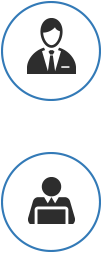
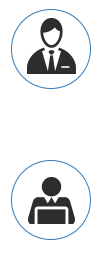
update style for User type page

diff --git a/src/main/webapp/assets/modules/footer/footer.html b/src/main/webapp/assets/modules/footer/footer.html
@@ -10,7 +10,7 @@
           <li><i class="fa fa-circle"></i><a href="#/contest" translate="joinTechLooperChallenge"></a></li>
           <li><i class="fa fa-circle"></i><a onClick="gotoChallenges()" translate="allChallenges"></a></li>
           <li><i class="fa fa-circle"></i><a onClick="gotoProjects()" translate="allFreelancerProjects"></a></li>
-          <li><i class="fa fa-circle"></i><a href="#/how-it-works" translate="homepage.howitworks.title"></a></li>
+          <li><i class="fa fa-circle"></i><a href="#/how-does-it-work" translate="homepage.howitworks.title"></a></li>
         </ul>
       </div>
       <div class="site-map-content">

diff --git a/src/main/webapp/assets/sass/home.sass b/src/main/webapp/assets/sass/home.sass
@@ -904,7 +904,7 @@
 
     .line-center
         background: url(../images/line-li-gray.png) center top repeat-y
-        min-height: 300px
+        min-height: 265px
         text-align: center
         vertical-align: middle
         position: relative
@@ -923,7 +923,7 @@
             color: #b0b0b0
     .ic-user-type
         background: url(../images/ic-user-type.png) center top no-repeat
-        height: 120px
+        height: 95px
         width: 100%
         clear: both
         display: inline-block

diff --git a/src/main/webapp/assets/sass/z-responsive-candidate.sass b/src/main/webapp/assets/sass/z-responsive-candidate.sass
@@ -1400,8 +1400,9 @@
             width: 100%
             clear: both
             background: transparent
-            padding: 0 10px
+            padding: 5px 10px
             text-align: left
+            background: url(../images/line-li-gray.png) left top repeat-x
             a
               padding-left: 45px
             a.jobSeekerSignIn
